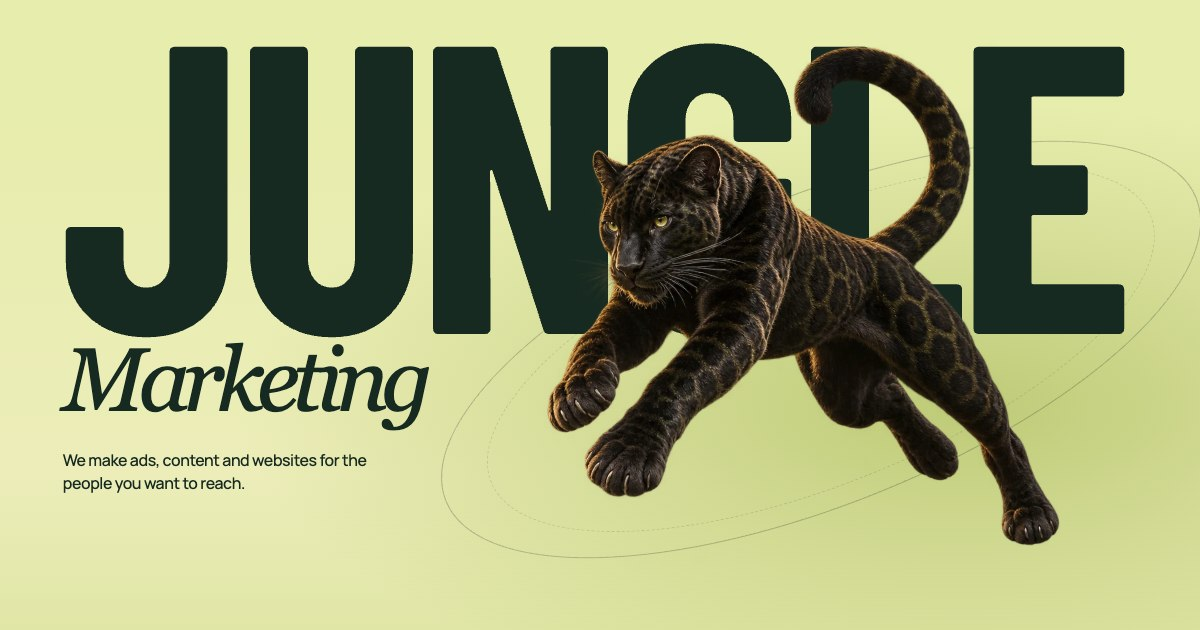
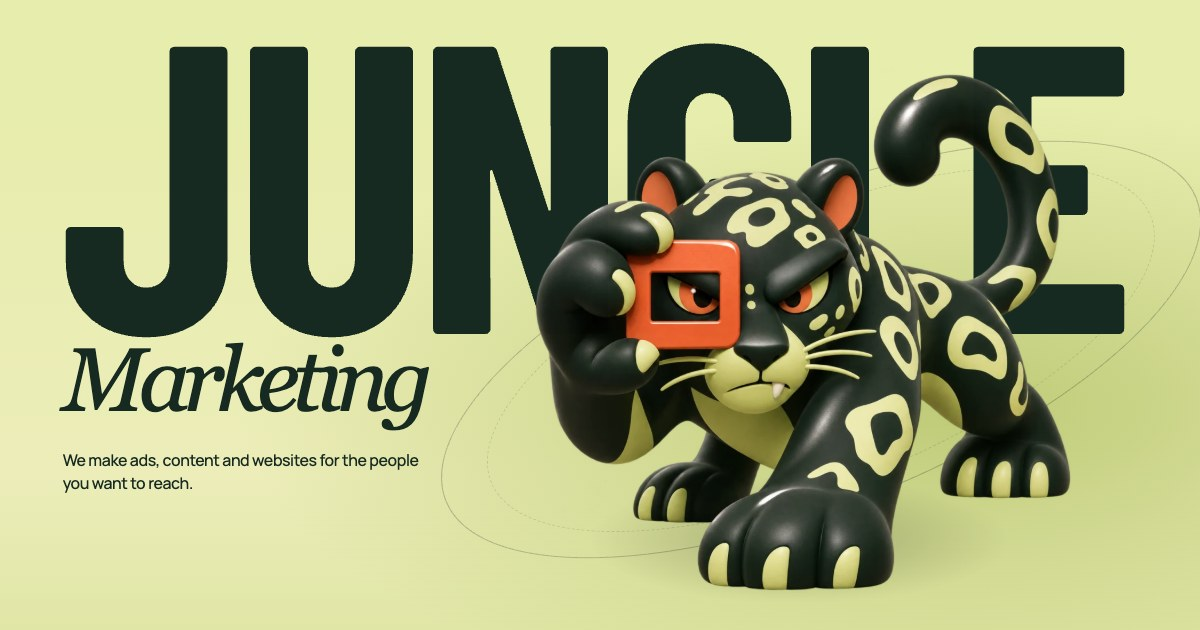
Bring the studio mascots into the 2027 edition

Changed region(s): [[0.4317, 0.0603, 0.8942, 0.9349], [0.0308, 0.754, 0.2158, 0.7841], [0.3083, 0.7238, 0.37, 0.754]]

diff --git a/2027/edition.css b/2027/edition.css
@@ -44,9 +44,9 @@ img { display: block; max-width: 100%; }
 h2 { font-family: var(--display); font-size: clamp(4rem, 8.7vw, 10rem); line-height: .87; text-transform: uppercase; letter-spacing: -.034em; }
 h2 em { font: italic .88em/.95 var(--serif); letter-spacing: -.075em; text-transform: lowercase; }
 
-/* Cover: oversized ink type sits behind an independent photographic layer. */
+/* The poster type and Focus move on separate layers. */
 .header, .cover { background: var(--lime); }
-.header-inner, .cover-meta, .cover-foot, .footer-inner { display: flex; align-items: center; justify-content: space-between; }
+.header-inner, .cover-foot, .footer-inner { display: flex; align-items: center; justify-content: space-between; }
 .header-inner { min-height: 78px; gap: 16px; border-bottom: 1px solid var(--rule); }
 .brand { display: inline-flex; align-items: center; gap: 13px; min-height: 44px; font-size: 1.03rem; letter-spacing: -.05em; font-weight: 800; }
 .claw { width: 8px; height: 26px; margin-inline: 4px 13px; background: currentColor; transform: skew(-20deg) rotate(7deg); border-radius: 100% 0; box-shadow: 7px 0 currentColor, 14px 0 currentColor; }
@@ -60,15 +60,13 @@ nav a:hover, .footer-inner a:hover { text-decoration: underline; text-underline-
 .button.small { min-height: 44px; padding: 7px 9px 7px 18px; gap: 16px; }
 .button.small span { width: 29px; height: 29px; }
 .cover { overflow: clip; background: radial-gradient(ellipse at 80% 65%, #becb77, transparent 53%), linear-gradient(var(--lime) 16%, #ecedb9 75%, #e0e6a6); }
-.cover-meta { padding-block: clamp(17px, 2vw, 30px) 0; }
-.cover-meta > span:first-child { display: flex; align-items: center; gap: 9px; }
-.dot { width: 8px; height: 8px; background: var(--ink); border-radius: 50%; }
 .poster { position: relative; isolation: isolate; container-type: inline-size; padding-bottom: clamp(22px, 3vw, 56px); }
 .mast-word { display: block; position: relative; font: 700 38cqw/.83 var(--display); letter-spacing: -.03em; text-transform: uppercase; }
 .mast-script { position: relative; z-index: 2; display: block; width: fit-content; margin: -.045em 0 0 .03em; font: italic 8.3cqw/.96 var(--serif); letter-spacing: -.08em; }
-.animal { position: absolute; z-index: 1; top: 7%; right: 8%; width: min(49cqw, 710px); pointer-events: none; transform: translate3d(var(--px,0px), var(--py,0px), 0); transition: transform .6s var(--ease); }
-.cat { width: 100%; height: auto; transform: rotate(-5deg); transform-origin: 55% 50%; }
-html[data-moving] .cat { animation: leap 6.5s ease-in-out infinite alternate; }
+.animal { position: absolute; z-index: 1; right: 5%; bottom: 0; width: min(48cqw, 660px); pointer-events: none; transform: translate3d(var(--px,0px), var(--py,0px), 0); transition: transform .6s var(--ease); }
+.animal::before { content: ""; position: absolute; inset: 75% 12% 2%; border-radius: 50%; background: radial-gradient(ellipse, rgb(36 44 18 / 27%), transparent 68%); }
+.cat { position: relative; width: 100%; height: auto; transform-origin: 54% 85%; }
+html[data-moving] .cat { animation: compose 6s ease-in-out infinite alternate; }
 .orbit { position: absolute; z-index: -1; pointer-events: none; width: 75%; height: 49%; right: -8%; top: 31%; border: 1px solid rgb(23 42 33 / 25%); border-radius: 50%; transform: rotate(-22deg); }
 .orbit::after { content: ""; position: absolute; inset: 6%; border: 1px dashed rgb(23 42 33 / 14%); border-radius: inherit; }
 .cover-copy { position: relative; z-index: 2; width: min(38%, 375px); margin: clamp(20px, 2.2vw, 35px) 0 0 .25%; }
@@ -78,15 +76,20 @@ html[data-moving] .cat { animation: leap 6.5s ease-in-out infinite alternate; }
 .switch { width: 24px; height: 14px; border: 1px solid currentColor; border-radius: 14px; display: grid; align-items: center; padding-inline: 2px; }
 .switch::after { content: ""; display: block; background: currentColor; width: 8px; height: 8px; border-radius: 50%; transition: transform .2s; }
 .motion[aria-pressed="true"] .switch::after { transform: translateX(9px); }
-@keyframes leap { from { transform: translateY(3px) rotate(-5deg); } to { transform: translateY(-9px) rotate(-7deg); } }
+@keyframes compose { from { transform: rotate(-1deg); } to { transform: translateY(-3px) rotate(1deg); } }
 
-/* A botanical plate and a keyboard-accessible service index. */
+/* Echo projects a ripple toward the service index. */
 .services, footer { background: var(--night); color: var(--paper); }
 .service-layout, .process-layout { display: grid; grid-template-columns: .9fr 1.1fr; gap: clamp(28px, 7vw, 120px); }
-.service-art { position: relative; isolation: isolate; min-height: 465px; }
+.service-art { position: relative; isolation: isolate; }
 .service-art h2 { position: relative; z-index: 1; }
 .service-art em { color: var(--lime); }
-.flower { width: clamp(145px, 16vw, 240px); height: auto; position: absolute; top: 26%; right: 5%; transform: rotate(16deg); pointer-events: none; }
+.echo-stage { position: relative; isolation: isolate; width: min(90%, 350px); margin: -2% 0 0 auto; aspect-ratio: 1.26; }
+.echo-stage::before { content: ""; position: absolute; inset: 6% -4% -8%; background: radial-gradient(ellipse, #385040, transparent 67%); }
+.echo { position: absolute; z-index: 1; height: 100%; width: 100%; object-fit: contain; transform: scaleX(-1); }
+.sound-wave { position: absolute; right: -2%; top: 25%; width: 28%; height: 25%; color: var(--orange); pointer-events: none; }
+.sound-wave::before, .sound-wave::after { content: ""; position: absolute; inset: 0 20%; border: 1px solid transparent; border-right-color: currentColor; border-radius: 50%; transform: rotate(-16deg); }
+.sound-wave::after { inset: -22% 0 -22% 18%; opacity: .55; }
 .services .cap { color: var(--muted); }
 .catalog { align-self: center; border-top: 1px solid #829382; }
 .catalog details { border-bottom: 1px solid #617567; }
@@ -114,6 +117,12 @@ details p { max-width: 54ch; margin: -4px 22px 23px 0; color: var(--muted); font
 .markets h3 { font: 700 clamp(3.6rem, 6vw, 6rem)/1 var(--display); letter-spacing: -.035em; margin: 5px 0; }
 .markets article > p:last-child { max-width: 37ch; }
 .process { background: #d8e2d5; }
+.prism-study { display: grid; position: relative; isolation: isolate; justify-items: start; width: min(100%, 350px); margin-top: 16px; }
+.prism-study::before { content: ""; position: absolute; z-index: -1; inset: 5% 0 12%; background-image: radial-gradient(#90a396 1px, transparent 1px); background-size: 12px 12px; mask-image: radial-gradient(ellipse, black 26%, transparent 69%); }
+.prism-study img { width: 78%; height: auto; justify-self: end; transition: transform .35s var(--ease); }
+.prism-study:hover img, .prism-study:focus-visible img { transform: translate(-4px, 1px) rotate(-2deg); }
+.prism-study span { display: inline-flex; align-items: center; gap: 15px; min-height: 44px; font-size: .93rem; font-weight: 750; border-bottom: 1px solid currentColor; }
+.prism-study b { font-size: 1.25rem; }
 .steps { list-style: none; counter-reset: stage; padding: 0; border-bottom: 1px solid var(--rule); }
 .steps li { counter-increment: stage; position: relative; border-top: 1px solid var(--rule); padding: 20px 0 22px 44px; }
 .steps li::before { content: counter(stage, decimal-leading-zero); position: absolute; left: 0; top: 24px; font: 700 .75rem Manrope, sans-serif; }
@@ -134,8 +143,7 @@ details p { max-width: 54ch; margin: -4px 22px 23px 0; color: var(--muted); font
   nav { gap: 14px; }
   .cover-copy { width: 45%; }
   .service-layout { grid-template-columns: .75fr 1.25fr; gap: 24px; }
-  .service-art { min-height: 330px; }
-  .flower { top: 43%; right: 14%; width: 122px; }
+  .echo-stage { width: 100%; margin-top: 12px; }
   .studio-head, .contact-head { display: grid; gap: 22px; }
   .field { grid-template-columns: 1.1fr 1fr; gap: 22px; }
   .process-layout { grid-template-columns: .8fr 1.2fr; gap: 24px; }
@@ -144,20 +152,25 @@ details p { max-width: 54ch; margin: -4px 22px 23px 0; color: var(--muted); font
   .header-inner { flex-wrap: wrap; column-gap: 8px; row-gap: 0; padding-top: 6px; }
   .header nav { order: 3; width: 100%; justify-content: space-between; border-top: 1px solid rgb(23 42 33 / 14%); margin-top: 5px; }
   nav a { min-height: 44px; padding-right: 12px; }
-  .cover-meta { font-size: .63rem; padding-top: 18px; }
-  .cover-meta .dot { width: 6px; height: 6px; }
   .poster { padding-top: 6px; padding-bottom: 24px; }
   .poster h1 { min-height: 90cqw; }
   .mast-script { margin-top: 0; font-size: 11.3cqw; }
-  .animal { width: 60cqw; right: 0; top: 17cqw; }
+  .animal { width: 59cqw; right: -1%; top: 24cqw; bottom: auto; }
   .orbit { top: 22%; height: 40%; width: 84%; right: -14%; }
   .cover-copy { width: min(100%, 34ch); margin-top: 8px; }
   .cover-copy p { font-size: .99rem; }
   .cover-foot { min-height: 50px; font-size: .62rem; }
   .service-layout, .process-layout, .field { grid-template-columns: 1fr; }
-  .service-art { min-height: 218px; }
-  .service-art h2 { font-size: 5rem; }
-  .flower { width: min(29%, 110px); top: 1px; right: 2%; }
+  .service-art { display: grid; grid-template-columns: 1.08fr 1fr; align-items: end; }
+  .service-art .cap { grid-column: 1/-1; margin-bottom: 12px; }
+  .service-art h2 { font-size: clamp(3rem, 13vw, 4.8rem); }
+  .echo-stage { margin: 0; aspect-ratio: 1; }
+  .process-intro { display: grid; grid-template-columns: 1fr 37%; gap: 0 8px; align-items: center; }
+  .process-intro .cap { grid-column: 1/-1; }
+  .process-intro h2 { font-size: clamp(3.35rem, 14vw, 5.3rem); }
+  .prism-study { margin-top: 0; }
+  .prism-study img { width: 100%; }
+  .prism-study span { gap: 6px; font-size: .78rem; }
   .catalog { margin-top: 0; }
   .photo-panel { min-height: 300px; }
   .markets { grid-template-columns: 1fr 1fr; gap: 14px; }

diff --git a/2027/index.html b/2027/index.html
@@ -16,7 +16,7 @@
   <meta name="twitter:card" content="summary_large_image">
   <link rel="icon" href="../favicon.svg" type="image/svg+xml">
   <link rel="preload" href="assets/barlow-condensed-bold.ttf" as="font" type="font/ttf" crossorigin>
-  <link rel="preload" href="assets/jaguar.webp" as="image" type="image/webp">
+  <link rel="preload" href="assets/focus.webp" as="image" type="image/webp">
   <link rel="stylesheet" href="edition.css">
   <script src="edition.js" defer></script>
 </head>
@@ -30,14 +30,13 @@
     </div>
   </header>
   <main id="main">
-    <!-- Masthead and independently moving photographic cutout -->
+    <!-- Masthead and independently moving mascot -->
     <section class="cover" aria-labelledby="mast">
       <div class="wrap cover-inner">
-        <div class="cover-meta micro"><span><i class="dot"></i> Digital marketing studio</span><span>Studio edition / 2027</span></div>
         <div class="poster">
           <div class="orbit" aria-hidden="true"></div>
           <h1 id="mast"><span class="mast-word">Jungle</span><span class="mast-script">Marketing</span></h1>
-          <div class="animal" aria-hidden="true"><img class="cat" src="assets/jaguar.webp" width="924" height="950" alt="" fetchpriority="high"></div>
+          <div class="animal"><img class="cat" src="assets/focus.webp" width="1000" height="1000" alt="Focus, the studio jaguar, framing a shot." fetchpriority="high"></div>
           <div class="cover-copy">
             <p>We make ads, content and websites for the people you want to reach.</p>
             <a class="button" href="#services">Explore services <span aria-hidden="true">↓</span></a>
@@ -55,14 +54,17 @@
         <div class="service-art">
           <p class="micro cap">Services</p>
           <h2 id="service-title">What we<br><em>do.</em></h2>
-          <img class="flower" src="assets/anthurium.webp" width="420" height="722" alt="" loading="lazy" decoding="async">
+          <div class="echo-stage">
+            <span class="sound-wave" aria-hidden="true"></span>
+            <img class="echo" src="assets/echo.webp" width="1000" height="1000" alt="Echo, a toucan with a megaphone beak." loading="lazy" decoding="async">
+          </div>
         </div>
         <div class="catalog">
           <details open><summary>Paid social</summary><p>Reach people on Facebook, Instagram and VK. We plan campaigns around the action you need, from a first message to a sales enquiry.</p></details>
           <details><summary>Social media management</summary><p>We plan posts, manage your accounts and shape the look of your profile so visitors can see what you offer.</p></details>
           <details><summary>Content production</summary><p>Portraits, product photography and event coverage for websites, social feeds and advertising.</p></details>
           <details><summary>Website design</summary><p>A one-page introduction or a multi-page website that helps visitors explore your offer and get in touch.</p></details>
-          <details><summary>Analytics &amp; audits</summary><p>We review your website, traffic and audience needs. That can include a Yandex Metrica review, product and persona maps, or a marketing kit.</p></details>
+          <details><summary>Analytics &amp; audits</summary><p id="audit-scope" tabindex="-1">We review your website, traffic and audience needs. That can include a Yandex Metrica review, product and persona maps, or a marketing kit.</p></details>
           <details><summary>Reels &amp; art direction</summary><p>Short-form video editing, reel covers and highlight artwork, with a visual direction for the whole profile.</p></details>
         </div>
       </div>
@@ -91,7 +93,14 @@
 
     <section class="process block" id="process" aria-labelledby="process-title">
       <div class="wrap process-layout">
-        <header><p class="micro cap">Our process</p><h2 id="process-title">From brief<br>to <em>launch.</em></h2></header>
+        <header class="process-intro">
+          <p class="micro cap">Our process</p>
+          <h2 id="process-title">From brief<br>to <em>launch.</em></h2>
+          <a class="prism-study" href="#audit-scope">
+            <img src="assets/prism.webp" width="1000" height="1000" alt="" loading="lazy" decoding="async">
+            <span>Explore the audit <b aria-hidden="true">↗</b></span>
+          </a>
+        </header>
         <ol class="steps">
           <li><h3>Understand the audience</h3><p>Map customer needs and the product. Review competitors to see which questions the offer needs to answer.</p></li>
           <li><h3>Shape the offer</h3><p>Clarify the service and prepare the website, social profile or messaging channel where enquiries will arrive.</p></li>

diff --git a/2027/edition.js b/2027/edition.js
@@ -4,12 +4,16 @@ const finePointer = matchMedia("(hover: hover) and (pointer: fine)");
 const poster = document.querySelector(".poster");
 const animal = document.querySelector(".animal");
 const toggle = document.querySelector(".motion");
+const wave = document.querySelector(".sound-wave");
+const audit = document.querySelector("#audit-scope");
 let paused = false;
+let ripple;
 
 function syncMotion() {
   const active = !paused && !reduced.matches;
   root.toggleAttribute("data-moving", active);
   root.toggleAttribute("data-still", !active);
+  if (!active) ripple?.cancel();
   toggle.hidden = reduced.matches;
   toggle.setAttribute("aria-pressed", String(active));
   resetPointer();
@@ -34,6 +38,23 @@ poster.addEventListener("pointermove", (event) => {
   animal.style.setProperty("--py", ((event.clientY - bounds.top) / bounds.height - .5) * 10 + "px");
 }, { passive: true });
 poster.addEventListener("pointerleave", resetPointer);
+
+document.querySelector(".catalog").addEventListener("toggle", (event) => {
+  if (!event.target.open || !root.hasAttribute("data-moving") || !wave.animate) return;
+  ripple?.cancel();
+  ripple = wave.animate([
+    { opacity: .2, transform: "translateX(-6px) scale(.78)" },
+    { opacity: 1, transform: "translateX(5px) scale(1.12)", offset: .65 },
+    { opacity: 1, transform: "none" }
+  ], { duration: 420, easing: "ease-out" });
+}, true);
+
+// Open the disclosure before the fragment scroll, including on repeat visits.
+function openAudit() {
+  audit.closest("details").open = true;
+}
+document.querySelector(".prism-study").addEventListener("click", openAudit);
+if (location.hash === "#audit-scope") openAudit();
 
 if ("IntersectionObserver" in window) {
   const reveal = new IntersectionObserver((entries) => {
